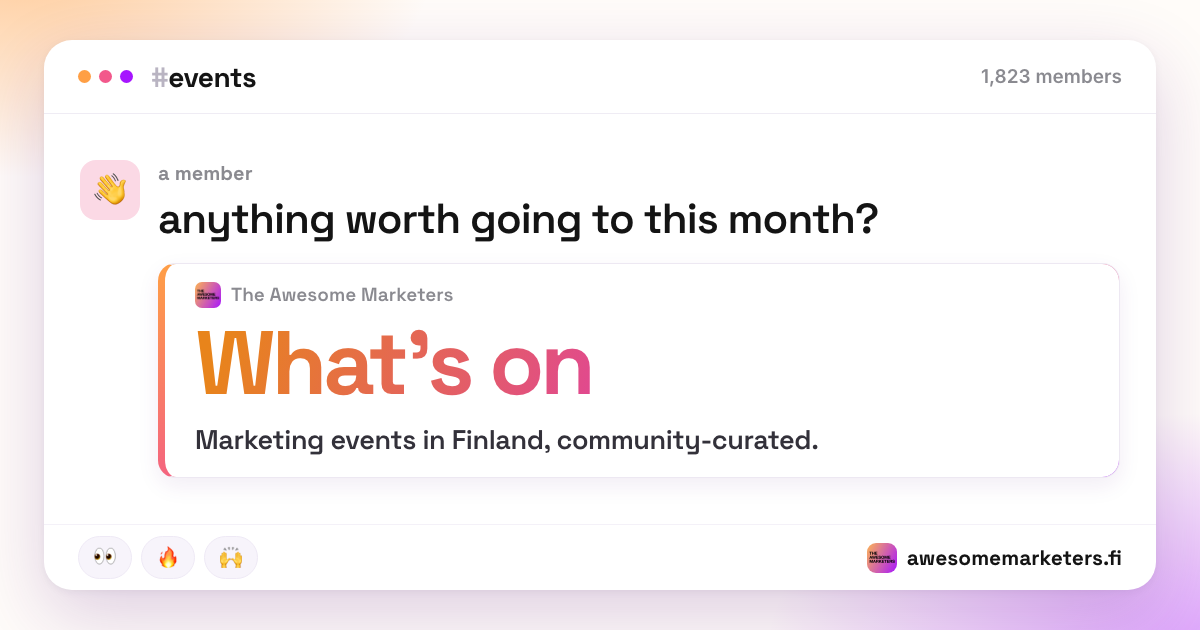
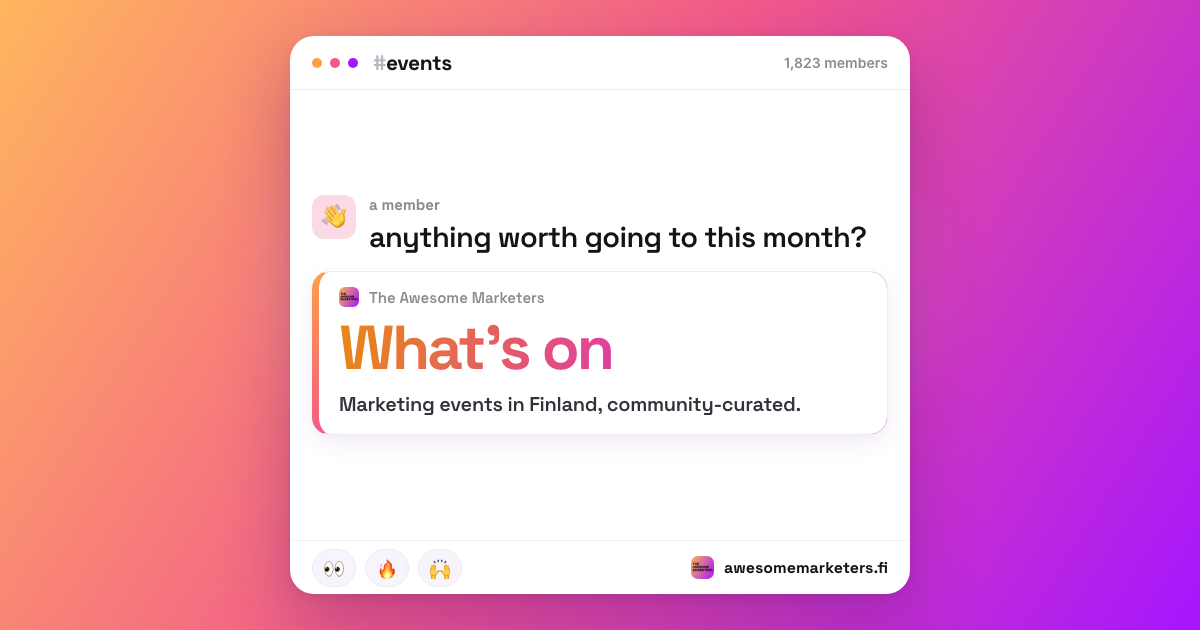
OG cards: make them square-safe for Slack's cropped preview
Slack's compact unfurl crops the image to a centre square instead of
scaling it, which cut "Round one" down to "und one" and threw away the
window frame. The Slack window is now 620px wide and centred, so the
whole conversation sits inside the middle 630x630 and survives the crop.
At full 1.91:1 the window floats on the brand gradient. Checked as a
630x630 crop, at 215px, and at full size.

diff --git a/_og/build_og.py b/_og/build_og.py
@@ -1,6 +1,9 @@
 #!/usr/bin/env python3
 """Build per-page OG cards (1200x630) for awesomemarketers.fi.
 
+Square-safe: Slack's compact unfurl CROPS to a centre square rather than
+scaling, so the whole Slack window sits inside the middle 630x630.
+
 Concept: the community lives on Slack, so every card is a Slack moment.
 A real community question, answered by what that page offers.
 
@@ -96,54 +99,55 @@ TPL = """<!DOCTYPE html><html><head><meta charset="utf-8">
  *{margin:0;padding:0;box-sizing:border-box}
  body{width:1200px;height:630px;overflow:hidden;font-family:'Inter',system-ui,sans-serif;
   -webkit-font-smoothing:antialiased;
-  background:
-   radial-gradient(ellipse 55% 55% at 2% -6%, rgba(255,159,69,0.52), transparent 62%),
-   radial-gradient(ellipse 60% 62% at 101% 104%, rgba(166,21,255,0.40), transparent 62%),
-   #FFFCF9;}
- .win{position:absolute;left:44px;top:40px;right:44px;bottom:40px;background:#fff;
-  border-radius:28px;box-shadow:0 26px 74px rgba(88,26,133,0.20),0 2px 8px rgba(0,0,0,.05);
+  background:linear-gradient(122deg,#FFB65E 0%,#F2588B 48%,#A615FF 100%);}
+ .halo{position:absolute;inset:0;
+  background:radial-gradient(ellipse 46% 58% at 50% 46%, rgba(255,255,255,.30), transparent 68%)}
+ /* 620 wide, centred: survives a centre-square crop (the 630x630 middle) */
+ .win{position:absolute;left:290px;top:36px;width:620px;height:558px;background:#fff;
+  border-radius:24px;box-shadow:0 28px 66px rgba(72,18,110,0.30),0 2px 10px rgba(0,0,0,.08);
   overflow:hidden;display:flex;flex-direction:column}
- .bar{height:74px;flex:none;display:flex;align-items:center;gap:13px;padding:0 34px;
+ .bar{height:54px;flex:none;display:flex;align-items:center;gap:10px;padding:0 22px;
   border-bottom:1px solid #EFECF4}
  .dots{display:flex;gap:8px;margin-right:5px}
- .dots i{width:13px;height:13px;border-radius:50%;display:block}
- .ch{font-family:'Space Grotesk';font-weight:700;font-size:28px;color:#141414;letter-spacing:-.02em}
+ .dots i{width:10px;height:10px;border-radius:50%;display:block}
+ .ch{font-family:'Space Grotesk';font-weight:700;font-size:21px;color:#141414;letter-spacing:-.02em}
  .ch b{color:#B9B4C2;font-weight:600}
- .mem{margin-left:auto;font-size:19px;font-weight:600;color:#8A8A90}
- .body{flex:1;padding:20px 36px;display:flex;flex-direction:column;justify-content:center}
- .msg{display:flex;gap:18px;align-items:flex-start}
- .av{width:60px;height:60px;border-radius:16px;flex:none;display:flex;align-items:center;
-  justify-content:center;font-size:32px;background:TINT}
- .who{font-family:'Space Grotesk';font-weight:700;font-size:20px;color:#8A8A90;margin-bottom:7px}
- .q{font-family:'Space Grotesk';font-weight:600;font-size:QSIZEpx;line-height:1.24;color:#141414;
-  letter-spacing:-.022em;max-width:960px}
- .ans{margin-top:18px;padding-left:78px}
+ .mem{margin-left:auto;font-size:14px;font-weight:600;color:#8A8A90}
+ .body{flex:1;padding:18px 22px;display:flex;flex-direction:column;justify-content:center}
+ .msg{display:flex;gap:13px;align-items:flex-start}
+ .av{width:44px;height:44px;border-radius:12px;flex:none;display:flex;align-items:center;
+  justify-content:center;font-size:24px;background:TINT}
+ .who{font-family:'Space Grotesk';font-weight:700;font-size:15px;color:#8A8A90;margin-bottom:5px}
+ .q{font-family:'Space Grotesk';font-weight:600;font-size:QSIZEpx;line-height:1.26;color:#141414;
+  letter-spacing:-.022em}
+ .ans{margin-top:16px}
  .card{border:1px solid #EDE8F2;border-left:7px solid transparent;border-radius:18px;
-  padding:18px 30px 20px;background:#fff;
+  padding:15px 20px 17px;background:#fff;
   background-image:linear-gradient(#fff,#fff),linear-gradient(165deg,#FF9F45,#F2588B 55%,#A615FF);
   background-origin:border-box;background-clip:padding-box,border-box;
   box-shadow:0 8px 22px rgba(88,26,133,.08)}
  .src{display:flex;align-items:center;gap:10px;margin-bottom:10px}
- .src img{width:26px;height:26px;border-radius:7px;display:block}
- .src span{font-family:'Space Grotesk';font-weight:600;font-size:19px;color:#8A8A90}
+ .src img{width:20px;height:20px;border-radius:6px;display:block}
+ .src span{font-family:'Space Grotesk';font-weight:600;font-size:15px;color:#8A8A90}
  .big{font-family:'Space Grotesk';font-weight:700;font-size:BSIZEpx;line-height:1.0;
   letter-spacing:-.045em;padding-bottom:4px;
   background:linear-gradient(112deg,#E8841B 4%,#E0439A 50%,#9B12EC 92%);
   -webkit-background-clip:text;background-clip:text;-webkit-text-fill-color:transparent}
- .line{margin-top:10px;font-family:'Space Grotesk';font-weight:600;font-size:27px;line-height:1.3;
+ .line{margin-top:8px;font-family:'Space Grotesk';font-weight:600;font-size:20px;line-height:1.3;
   color:#33313A;letter-spacing:-.015em;max-width:900px}
  .chips{margin-top:14px;display:flex;gap:10px;flex-wrap:wrap}
- .chips i{font-style:normal;padding:8px 16px;border-radius:999px;background:#FAF7FD;
-  border:1.5px solid #ECE5F4;font-family:'Space Grotesk';font-weight:600;font-size:19px;color:#3A3742}
- .foot{flex:none;height:66px;display:flex;align-items:center;gap:10px;padding:0 34px;
+ .chips i{font-style:normal;padding:6px 12px;border-radius:999px;background:#FAF7FD;
+  border:1.5px solid #ECE5F4;font-family:'Space Grotesk';font-weight:600;font-size:15px;color:#3A3742}
+ .foot{flex:none;height:54px;display:flex;align-items:center;gap:8px;padding:0 22px;
   border-top:1px solid #F4F1F8}
  .rx{display:flex;gap:9px}
- .rx i{font-style:normal;padding:6px 15px;border-radius:999px;background:#F7F4FB;
-  border:1px solid #EEE9F5;font-size:20px}
+ .rx i{font-style:normal;padding:5px 11px;border-radius:999px;background:#F7F4FB;
+  border:1px solid #EEE9F5;font-size:16px}
  .url{margin-left:auto;display:flex;align-items:center;gap:10px}
- .url img{width:30px;height:30px;border-radius:9px;display:block}
- .url span{font-family:'Space Grotesk';font-weight:700;font-size:21px;color:#141414}
+ .url img{width:23px;height:23px;border-radius:7px;display:block}
+ .url span{font-family:'Space Grotesk';font-weight:700;font-size:16px;color:#141414}
 </style></head><body>
+<div class="halo"></div>
 <div class="win">
  <div class="bar">
   <div class="dots"><i style="background:#FF9F45"></i><i style="background:#F2588B"></i><i style="background:#A615FF"></i></div>
@@ -175,8 +179,8 @@ def esc(s):
 def build(p, i, logo_uri):
     tint, emoji = AV[i % len(AV)]
     n = len(p["big"])
-    bs = 104 if n <= 6 else 90 if n <= 9 else 80 if n <= 12 else 70
-    qs = 42 if len(p["q"]) <= 40 else 38
+    bs = 70 if n <= 6 else 62 if n <= 9 else 54 if n <= 12 else 46
+    qs = 29 if len(p["q"]) <= 40 else 26
     chips = ""
     if p.get("chips"):
         chips = '<div class="chips">' + "".join(f"<i>{esc(c)}</i>" for c in p["chips"]) + "</div>"
